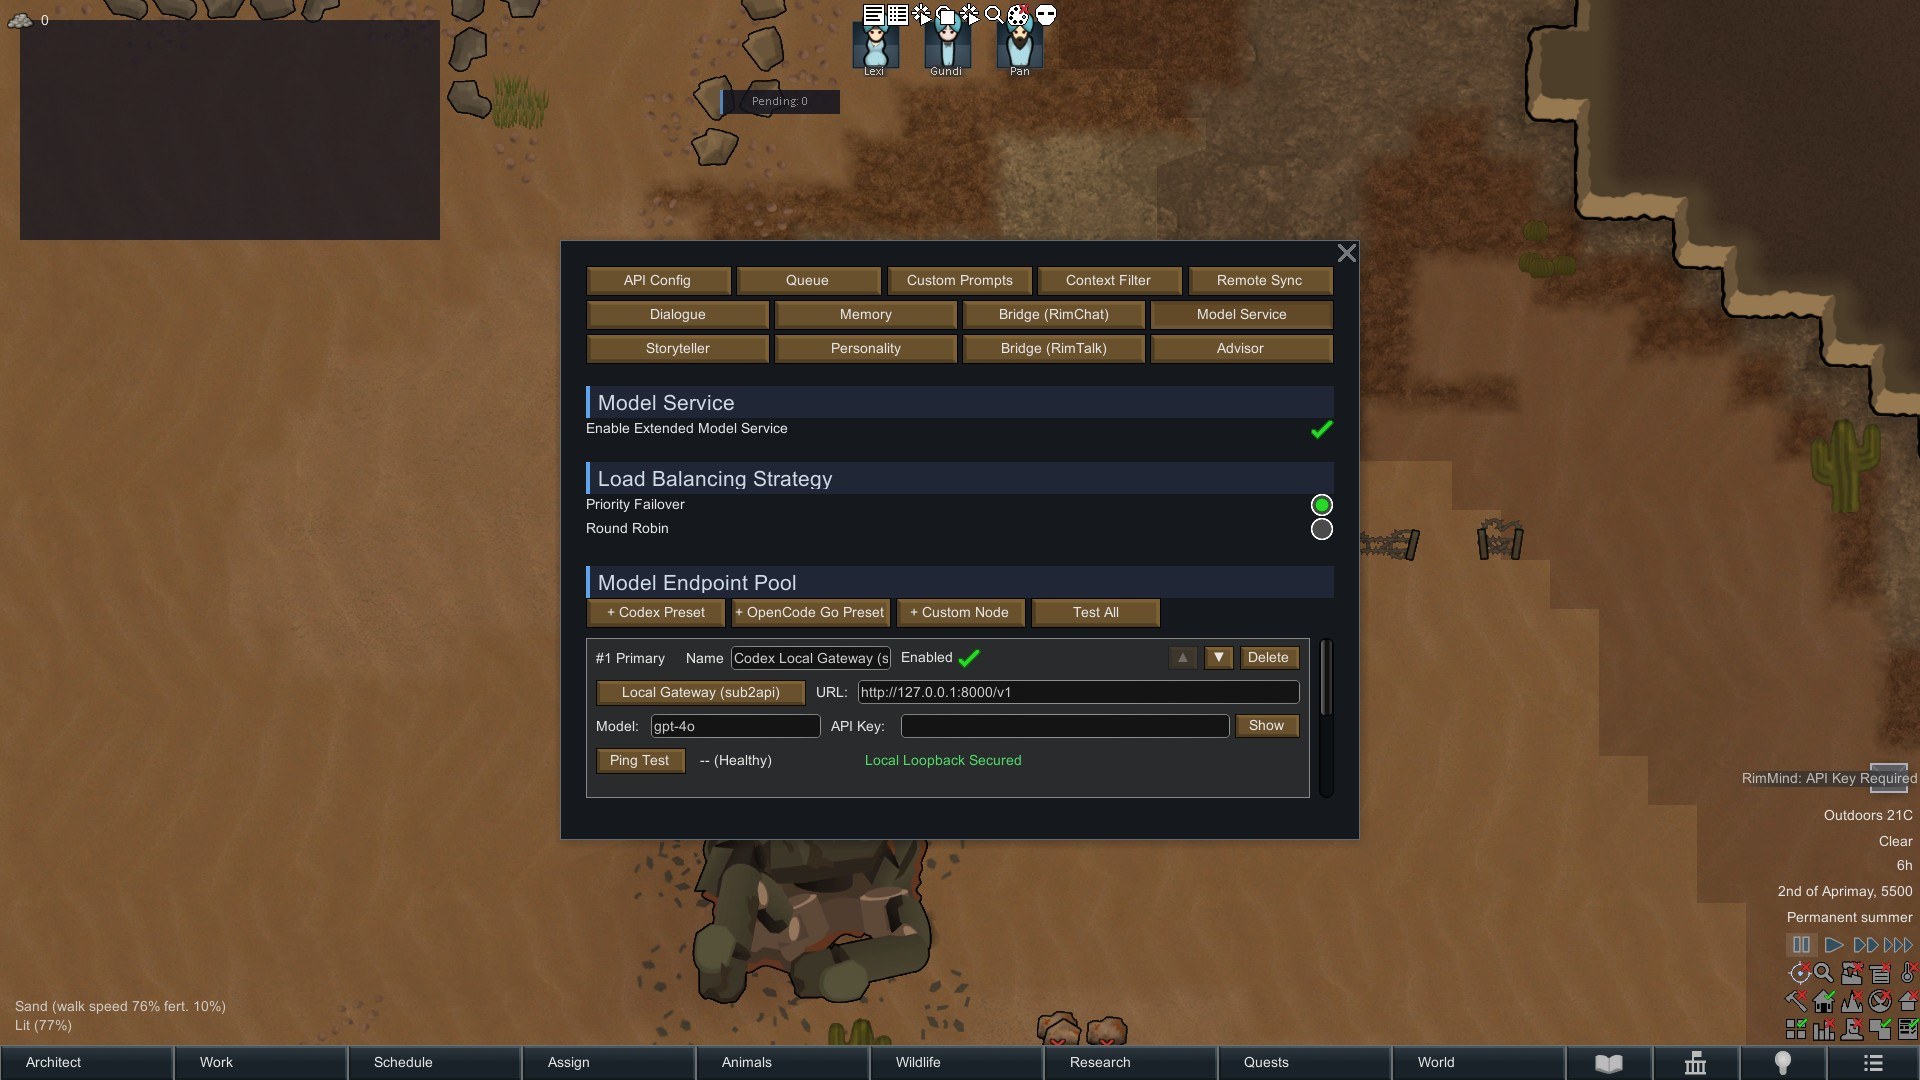
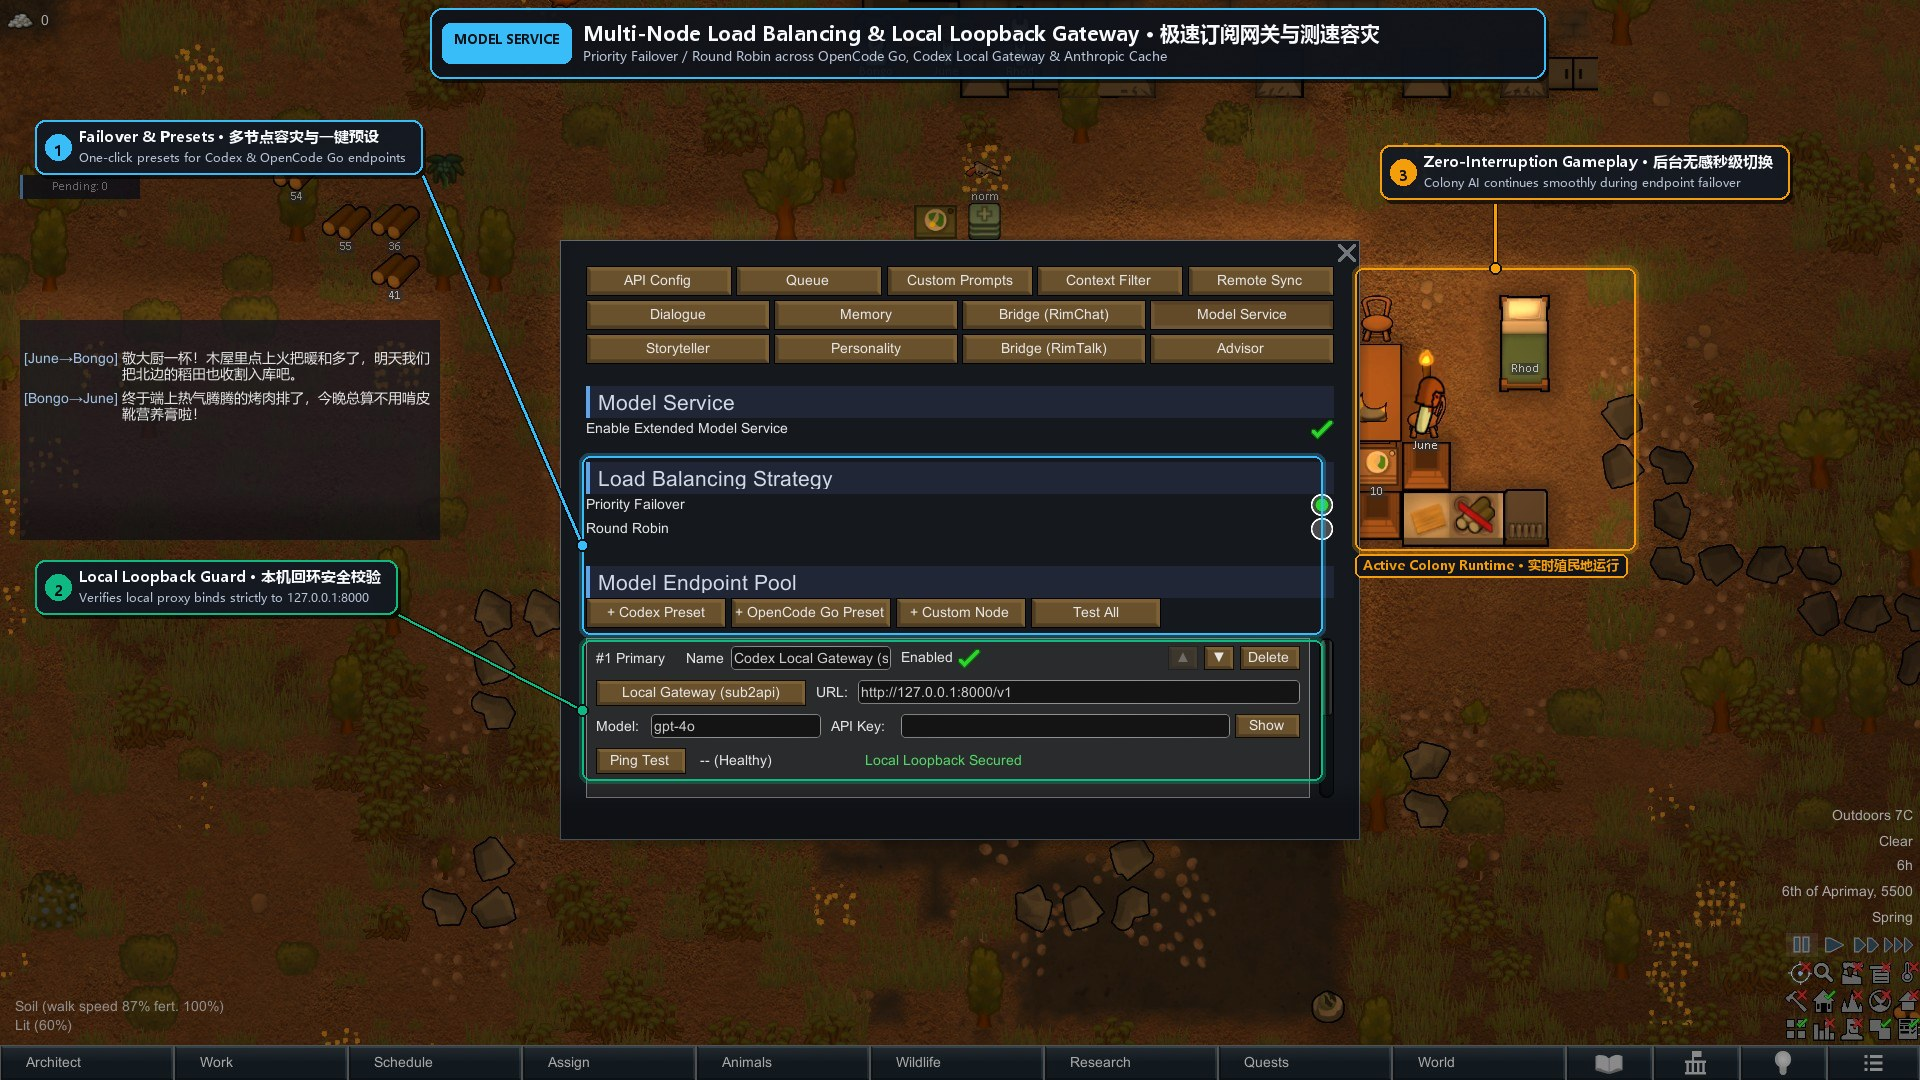
docs(showcase): update annotated in-game showcase image and bilingual captions

diff --git a/README_zh.md b/README_zh.md
@@ -33,7 +33,7 @@
 ## 🎮 实机特性展示
 
 ![RimMind-Extension-ModelService 实机展示](docs/images/showcase.jpg)
-*扩展模型网关设置界面：实时监测与 OpenCode Go 端点的毫秒级网络延迟，并配置多端点自动容灾策略。*
+*扩展模型网关设置实机：配置 `Priority Failover` / `Round Robin` 负载均衡策略、一键添加 `Codex Preset` 与 `OpenCode Go Preset` 预设节点，并通过 `Local Loopback Secured`（`127.0.0.1:8000`）本机回环安全校验。*
 
 ---
 

diff --git a/README.md b/README.md
@@ -33,7 +33,7 @@
 ## 🎮 In-Game Showcase
 
 ![RimMind-Extension-ModelService Showcase](docs/images/showcase.jpg)
-*High-speed gateway settings: Testing real-time connection latency with OpenCode Go and configuring automatic endpoint failover.*
+*Multi-node gateway & failover settings: Configuring `Priority Failover` / `Round Robin` load balancing, one-click `Codex Preset` & `OpenCode Go Preset` nodes, and `Local Loopback Secured` (`127.0.0.1:8000`) verification.*
 
 ---
 
